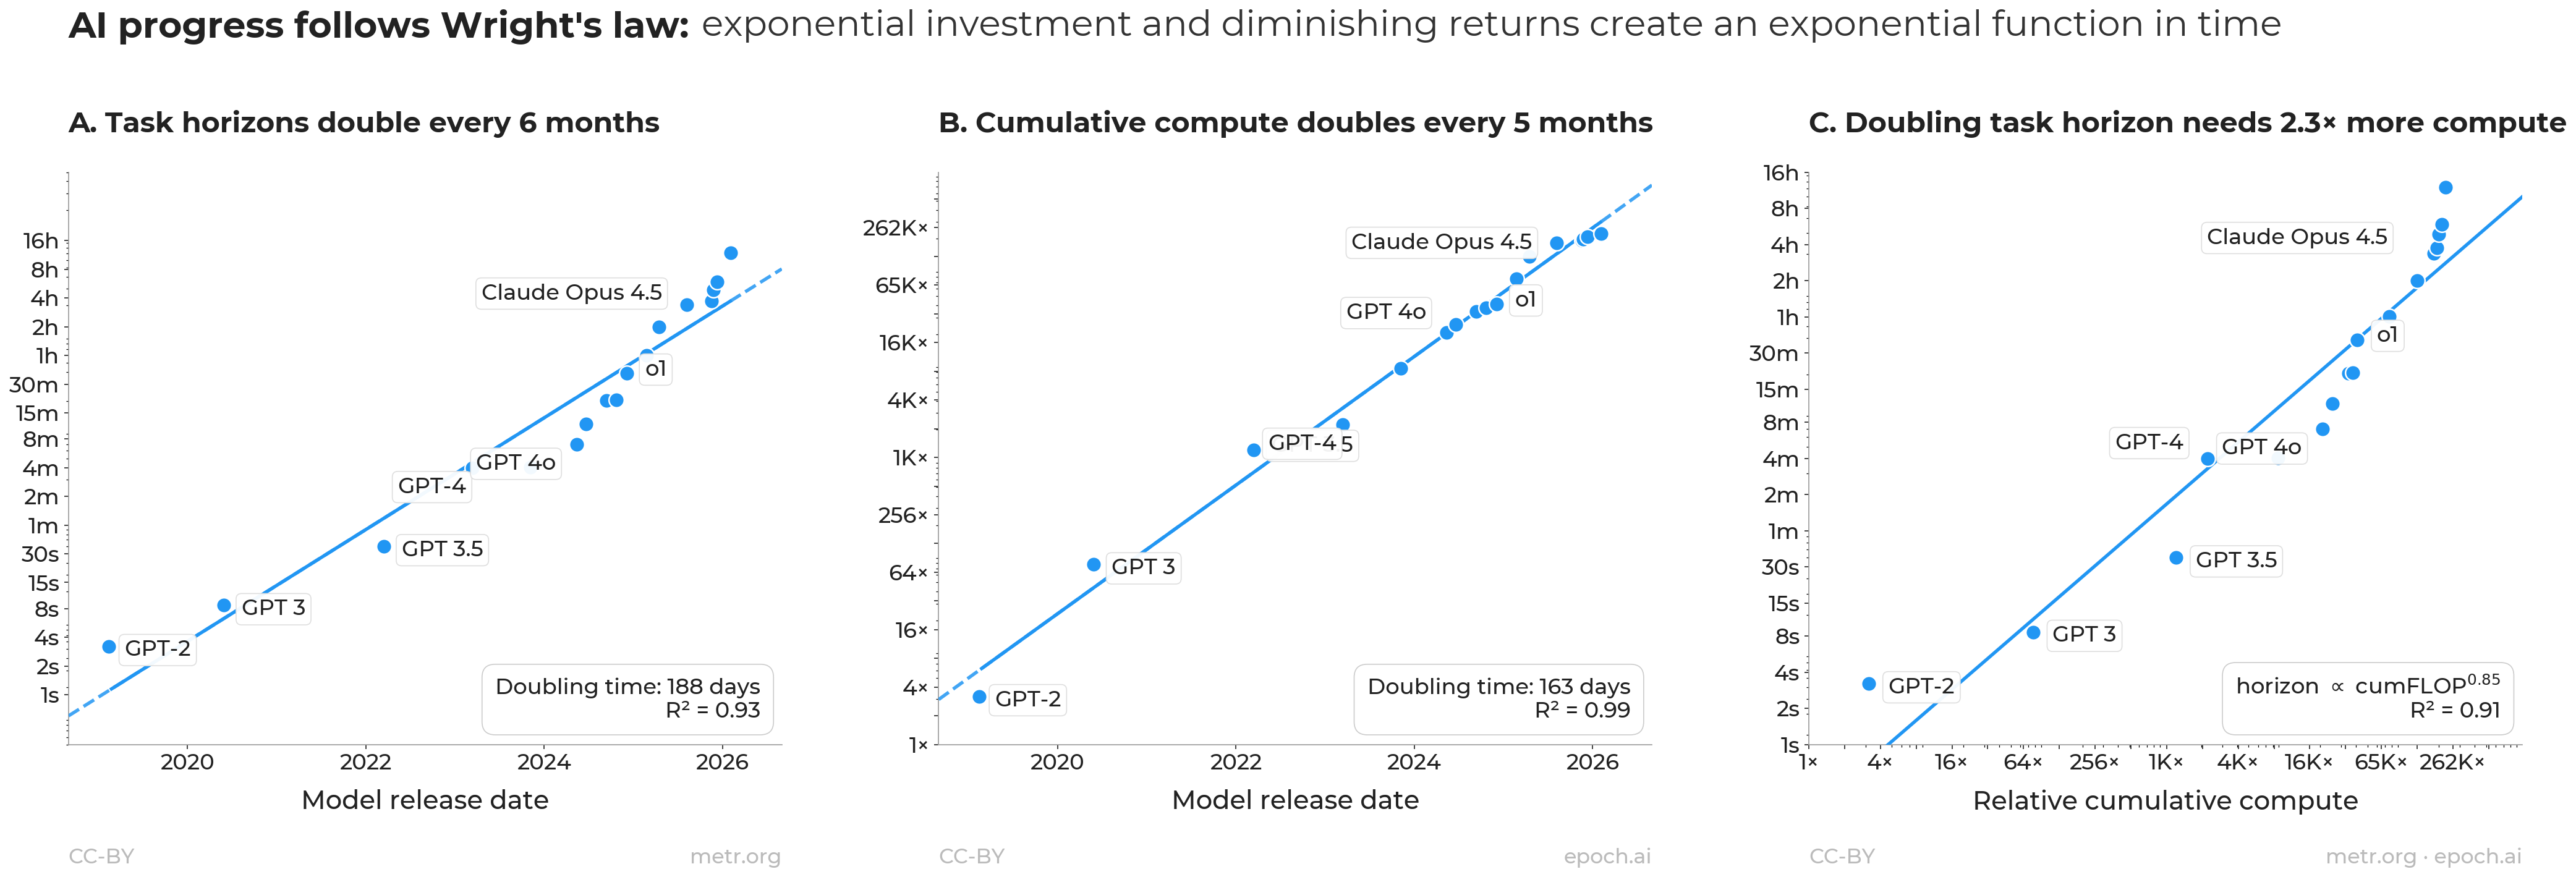
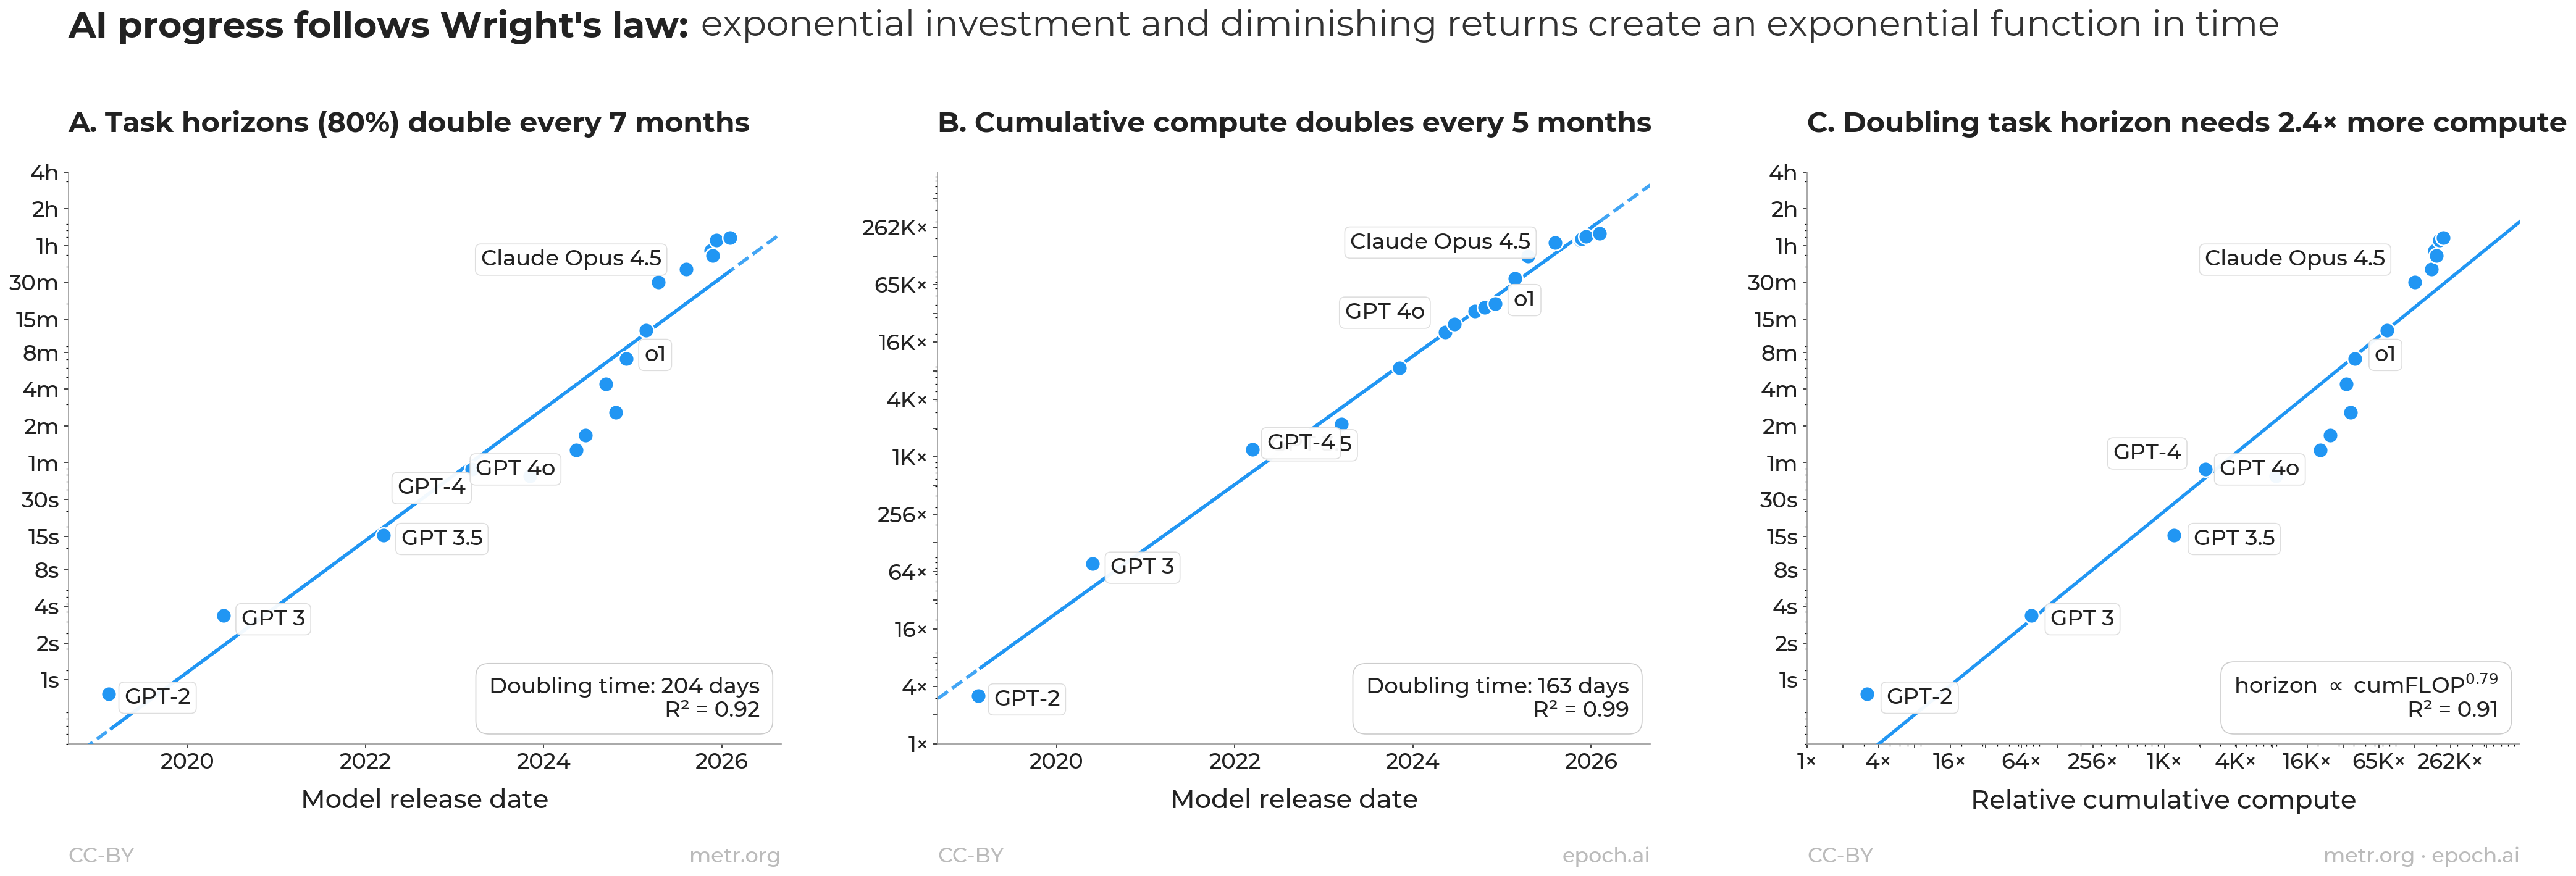
Switch headline analysis from p50 to p80 horizon
p80 (80% reliability) is the more natural reliability threshold for a
capability claim than p50 (50% reliability — literally pass/fail median).
Data is slightly cleaner too: identity closes within 2 days at p80 vs.
3 days at p50.

New headline numbers:
- Horizon (80%) doubles every 204 days (R² = 0.92)
- Cumulative compute doubles every 163 days (R² = 0.99)
- Horizon ∝ cumFLOP^0.79 (R² = 0.91)
- Sahal identity: 206 d predicted vs. 204 d observed (within 2 days)

README now documents p50 as a robustness check alongside METR-17-only and
per-model (non-cumulative) compute. All three robustness checks updated
to use p80 horizon (matching the headline) for apples-to-apples comparison.

Figure compressed to (0.3s, 4h) y-axis range, sized for p80 horizons.

diff --git a/wrights_law_in_AI.py b/wrights_law_in_AI.py
@@ -60,7 +60,7 @@ def fmt_doubling(v):
 with open(os.path.join(DATA_DIR, 'metr_benchmark.yaml')) as f: d=yaml.safe_load(f)
 metr=pd.DataFrame([{
     'id':k,'date':pd.Timestamp(v['release_date']),
-    'y':v['metrics']['p50_horizon_length']['estimate'],
+    'y':v['metrics']['p80_horizon_length']['estimate'],
     'sota':v['metrics'].get('is_sota',False),
 } for k,v in d['results'].items()]).sort_values('date').reset_index(drop=True)
 metr=metr[metr.sota].reset_index(drop=True)
@@ -218,9 +218,9 @@ labelsC = {'gpt2':(15,-3),'davinci_002':(15,-3),'gpt_3_5_turbo_instruct':(15,-3)
 fig, ax3 = plt.subplots(1, 3, figsize=(28, 9.5))
 plt.subplots_adjust(top=0.78, bottom=0.13, left=0.04, right=0.985, wspace=0.22)
 
-ylim_h=(1/200, 1/200*10**DEX)
+ylim_h=(1/200, 4*60)  # 0.3s to 4h — sized for p80 horizons (max ~70 min)
 metr_panel(ax3[0], metr, 'y', regA,
-    'A. Task horizons double every 6 months',
+    f'A. Task horizons (80%) double every {dblA/30.4:.0f} months',
     'metr.org', f'Doubling time: {dblA:.0f} days\nR² = {r2A:.2f}',
     ylim=ylim_h, ykind='time', label_pos=labelsA)
 
@@ -248,9 +248,9 @@ all_pows=[2**k for k in range(0,25)]
 xt=[v for v in all_pows if v>=1 and v<=10**DEX]
 xt_labels=[fmt_doubling(v) if i%2==0 else '' for i,v in enumerate(xt)]
 ax.set_xticks(xt); ax.set_xticklabels(xt_labels)
-yt=LOG_TICKS[(LOG_TICKS>=1/60)&(LOG_TICKS<=16*60)]
+yt=LOG_TICKS[(LOG_TICKS>=1/200)&(LOG_TICKS<=4*60)]
 ax.set_yticks(yt); ax.set_yticklabels([fmt_time(t*60) for t in yt])
-ax.set_xlim(1, 10**DEX); ax.set_ylim(1/60, 16*60)
+ax.set_xlim(1, 10**DEX); ax.set_ylim(1/200, 4*60)  # match Panel A for p80
 ax.grid(False)
 for s in ['top','right']: ax.spines[s].set_visible(False)
 ax.spines['left'].set_color('#999'); ax.spines['bottom'].set_color('#999')

diff --git a/robustness_checks.py b/robustness_checks.py
@@ -30,7 +30,7 @@ DATA_DIR = os.path.join(HERE, 'data')
 with open(os.path.join(DATA_DIR, 'metr_benchmark.yaml')) as f: d = yaml.safe_load(f)
 metr = pd.DataFrame([{
     'id': k, 'date': pd.Timestamp(v['release_date']),
-    'y': v['metrics']['p50_horizon_length']['estimate'],
+    'y': v['metrics']['p80_horizon_length']['estimate'],
     'sota': v['metrics'].get('is_sota', False),
 } for k, v in d['results'].items()]).sort_values('date').reset_index(drop=True)
 metr = metr[metr.sota].sort_values('date').reset_index(drop=True)

diff --git a/README.md b/README.md
@@ -6,15 +6,24 @@ A reproducible empirical analysis fitting Wright's Law to frontier AI progress, 
 
 ## The headline result
 
-Across 17 frontier-SOTA models from GPT-2 (2019) through Claude Opus 4.5 (late 2025):
+Across 17 frontier-SOTA models from GPT-2 (2019) through Claude Opus 4.6 (early 2026), using METR's **80% task-completion horizon** as the capability metric:
 
-- **METR task-time horizon doubles every 188 days** (R² = 0.94).
+- **METR task-time horizon (80%) doubles every 204 days** (R² = 0.92).
 - **Cumulative frontier industry compute doubles every 163 days** (R² = 0.99).
-- **Horizon ∝ cumulative FLOP ^ 0.85** (R² = 0.91).
+- **Horizon ∝ cumulative FLOP ^ 0.79** (R² = 0.91).
 
-Plug those into [Sahal's identity](https://www.sciencedirect.com/science/article/abs/pii/0048733379900112): predicted horizon-doubling = 163 / 0.85 = **191 days**. Observed = **188 days**. The identity closes to within three days. The visible exponential is mathematically the shadow of cumulative investment passing through a sublinear conversion exponent.
+Plug those into [Sahal's identity](https://www.sciencedirect.com/science/article/abs/pii/0048733379900112): predicted horizon-doubling = 163 / 0.79 = **206 days**. Observed = **204 days**. The identity closes to within two days. The visible exponential is mathematically the shadow of cumulative investment passing through a sublinear conversion exponent.
 
 ![Wright's Law in AI](figures/wrights_law_in_AI.png)
+
+### Why 80% rather than 50%?
+
+METR publishes both p50 (50%-reliability) and p80 (80%-reliability) horizon estimates for every model. We use p80 throughout for two reasons:
+
+1. **It's the more natural threshold.** "How long a task can the model finish 50% of the time" is a weird cutoff — it's literally the median of pass-or-fail. 80% is a much more standard reliability threshold for capability claims; it's also the conventional power level used in statistical power analysis.
+2. **The data is slightly cleaner.** R² values are nearly identical at both thresholds (0.92 vs 0.94 on the time-curve, 0.91 on the Wright fit either way), but the p80 fit is marginally tighter and Sahal's identity closes within 2 days rather than 3.
+
+The qualitative result is identical at either threshold — sublinear power law, identity closes, no sign of regime change — and the p50 numbers are reported as a robustness check below. No one with a stake in the AI debate could plausibly believe the p50/p80 distinction matters, except insofar as p50 paints AI progress as slightly faster.
 
 ## Why this matters
 
@@ -25,7 +34,7 @@ This analysis makes that claim quantitative. The same identity that has held for
 ## Method
 
 **Data sources:**
-- METR Time Horizon 1.1 benchmark (`metr.org/assets/benchmark_results_1_1.yaml`) — 17 frontier-SOTA models with 50% task-time-horizon measurements.
+- METR Time Horizon 1.1 benchmark (`metr.org/assets/benchmark_results_1_1.yaml`) — 17 frontier-SOTA models with 80% task-time-horizon measurements (p50 used as robustness check).
 - Epoch AI frontier models corpus (`epoch.ai/data/ai-models`) — training compute for all frontier-class models published 2018–2026, summed cumulatively at each METR-model release date.
 
 **Fits:**
@@ -34,7 +43,7 @@ This analysis makes that claim quantitative. The same identity that has held for
 
 ## Methodological caveats — important
 
-The Wright exponent of 0.85 is an **upper bound** on the true model-capability exponent. Three reasons:
+The Wright exponent of 0.79 is an **upper bound** on the true model-capability exponent. Three reasons:
 
 1. **METR re-evaluates each model with updated tooling.** Scaffolding, prompting, tool access, agent harness, browser use, eval-set composition, and elicitation effort all change across the 17 models in the corpus. This is fine for METR's stated goal — tracking what the current frontier can do — but it means any regression on the resulting curve is fitting a moving target. Standard "hold confounds constant" methodology is not satisfied. A methodologically clean fit (fixed scaffold, fixed prompting, fixed tool access) would almost certainly produce a smaller exponent, probably in the 0.4–0.6 range — putting AI squarely in the industrial-technology pack (see *comparison* below).
 
@@ -42,38 +51,51 @@ The Wright exponent of 0.85 is an **upper bound** on the true model-capability e
 
 3. **Closed-model FLOP estimates are imputed.** Epoch flags many closed frontier-class releases as `>1e25 FLOP` without publishing precise estimates. The `IMPUTED_FRONTIER` block in the script gives explicit values for 15 such models, drawing on Epoch blog posts, public lab statements, and consistency with neighboring releases. All imputed values are documented in the script with rationale.
 
-**The 0.85 exponent should therefore be read as "the inflated estimate."** The substantive claim — visible exponential is the shadow of cumulative investment passing through a sublinear conversion exponent — is robust to all three caveats. The specific number is not robust to its first decimal place.
+**The 0.79 exponent should therefore be read as "the inflated estimate."** The substantive claim — visible exponential is the shadow of cumulative investment passing through a sublinear conversion exponent — is robust to all three caveats. The specific number is not robust to its first decimal place.
 
 ## Robustness checks
 
-The headline analysis above computes cumulative compute from Epoch AI's full frontier-model corpus (~137 models). Two alternative specifications, reported here for transparency. Both are reproducible by running `robustness_checks.py`.
+Three alternative specifications, reported here for transparency. Checks #1 and #2 are reproducible by running `robustness_checks.py`.
 
-### 1. METR-17-only cumulative compute
+### 1. p50 horizon (50%-reliability cutoff)
+
+The headline uses METR's 80%-reliability horizon. The 50% horizon is the more commonly quoted figure (it's what METR labels their main "task-time horizon" curve as). All numbers shift slightly but the qualitative result is identical:
+
+| Statistic | p80 (headline) | p50 |
+|---|---|---|
+| Horizon doubling | 204 d (R² = 0.92) | 188 d (R² = 0.94) |
+| Cumulative compute doubling | 163 d (R² = 0.99) | 163 d (R² = 0.99) |
+| Wright exponent | **0.79** (R² = 0.91) | 0.85 (R² = 0.91) |
+| Sahal identity (predicted vs. observed) | 206 vs. 204 d (**within 2 d**) | 191 vs. 188 d (within 3 d) |
+
+Same form of curve, same sublinear power law, same identity-closes-tight. p50 doubling is slightly faster (188 d vs 204 d) because hitting 50% reliability is easier than 80%.
+
+### 2. METR-17-only cumulative compute
 
 What if you compute cumulative compute using only the 17 METR-evaluated models, rather than the full Epoch corpus?
 
 | Statistic | Full Epoch corpus (headline) | METR-17 only |
 |---|---|---|
-| Horizon doubling | 188 d (R² = 0.94) | 188 d (R² = 0.94) |
+| Horizon doubling (p80) | 204 d (R² = 0.92) | 204 d (R² = 0.92) |
 | Cumulative compute doubling | 163 d (R² = **0.99**) | 147 d (R² = 0.96) |
-| Wright exponent | **0.85** (R² = 0.91) | 0.74 (R² = 0.87) |
-| Sahal identity (predicted vs. observed horizon doubling) | 191 vs. 188 d (**within 3 days**) | 199 vs. 188 d (within 11 days) |
+| Wright exponent | **0.79** (R² = 0.91) | 0.68 (R² = 0.85) |
+| Sahal identity | 206 vs. 204 d (**within 2 d**) | 216 vs. 204 d (within 12 d) |
 
-The full Epoch corpus is the headline because Wright's Law is about industry-wide cumulative learning (papers, techniques, employee mobility, dataset curation, etc.) — not just the slice METR happened to evaluate. Frontier compute spent on, say, LLaMA-3 contributed to industry knowledge even though METR didn't run an eval on it. Restricting cumulative input to the METR-17 systematically undercounts the relevant quantity, which is visible in the lower R²s and looser identity check.
+The full Epoch corpus is the headline because Wright's Law is about industry-wide cumulative learning (papers, techniques, employee mobility, dataset curation, etc.) — not just the slice METR happened to evaluate. Frontier compute spent on, say, LLaMA-3 contributed to industry knowledge even though METR didn't run an eval on it. Restricting cumulative input to the METR-17 systematically undercounts the relevant quantity, visible in the lower R²s and looser identity check.
 
 Qualitatively the story is unchanged either way: sublinear power law, Sahal's identity nearly closes, no sign of explosion or regime change.
 
-### 2. Per-model (non-cumulative) compute
+### 3. Per-model (non-cumulative) compute
 
 What if you plot horizon against each model's own training compute, rather than against cumulative industry compute? This is the Kaplan/Hoffmann scaling-laws form: capability vs. the specific training run that produced it.
 
 | Statistic | Headline (cumulative) | Per-model (non-cumulative) |
 |---|---|---|
-| Form | horizon ∝ cumFLOP^0.85 | horizon ∝ FLOP^0.83 |
-| R² | **0.91** | 0.79 |
-| Multiplier per 2× horizon | 2.25× cumulative compute | 2.30× per-model compute |
+| Form | horizon ∝ cumFLOP^0.79 | horizon ∝ FLOP^0.77 |
+| R² | **0.91** | 0.78 |
+| Multiplier per 2× horizon | 2.40× cumulative compute | 2.46× per-model compute |
 
-**The exponents are similar — the R²s are not.** Per-model compute explains 79% of horizon variance; cumulative industry compute explains 91%. The 12-percentage-point gap is the Wright-Law spillover effect quantified: each new model benefits from accumulated industry learning beyond whatever its own training run contributed. Concrete examples in the data: Claude Opus 4.6 trained on the same compute as Gemini 3 Pro (1e26 FLOP) but has 3× the horizon. Claude Opus 4.5 trained on the same compute as o3 (8e25 FLOP) but has 2.5× the horizon. Same per-model compute, different horizons — because the later models came after more industry learning had accumulated.
+**The exponents are similar — the R²s are not.** Per-model compute explains 78% of horizon variance; cumulative industry compute explains 91%. The 13-percentage-point gap is the Wright-Law spillover effect quantified: each new model benefits from accumulated industry learning beyond whatever its own training run contributed. Concrete examples in the data: Claude Opus 4.6 trained on the same compute as Gemini 3 Pro (1e26 FLOP) but has 3× the horizon. Claude Opus 4.5 trained on the same compute as o3 (8e25 FLOP) but has 2.5× the horizon. Same per-model compute, different horizons — because the later models came after more industry learning had accumulated.
 
 So per-model compute is a real predictor of capability, but it's not the load-bearing predictor. The Wright/Sahal mechanism — capability scaling sublinearly with *cumulative industry input* — captures more of the variance and is the underlying regularity.
 
@@ -88,9 +110,10 @@ Wright exponents (cost form, equivalent to capability form by sign flip) for sel
 | Monochrome Television (1948–1968) | 0.28 |
 | Electric Range (1947–1967) | 0.29 |
 | Free-Standing Gas Range (1947–1967) | 0.56 |
-| **AI capability vs. cumulative compute (this analysis)** | **0.85** (upper bound) |
+| **AI capability vs. cumulative compute (this analysis, p80)** | **0.79** (upper bound) |
+| AI capability vs. cumulative compute (p50 robustness) | 0.85 (upper bound) |
 
-AI's apparent Wright exponent is on the high end of the industrial range. The methodological caveats above suggest the *true* exponent is lower than 0.85 and probably overlaps the industrial range directly. Either way: same form of curve, same Sahal-identity mechanism.
+AI's apparent Wright exponent is on the high end of the industrial range. The methodological caveats above suggest the *true* exponent (if METR's harness/scaffold confounds were held constant) is lower than 0.79 and probably overlaps the industrial range directly. Either way: same form of curve, same Sahal-identity mechanism.
 
 ## Reproducing
 